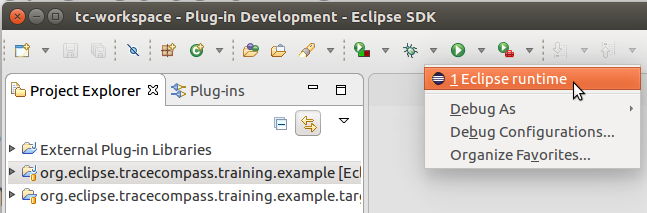
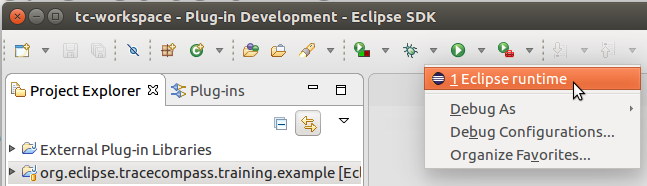
Better instructions

diff --git a/tracecompass/slides.md b/tracecompass/slides.md
@@ -6,6 +6,32 @@
 % thankyou_details:
 
 ---
+title: Agenda
+
+- Day 1
+    - Module 1: Overview and Background
+    - Module 2: Core Trace API
+	- Module 3: Analysis Framework
+	- Module 4: Generic State System
+- Day 2
+    - Module 5: Time Graph Views
+    - Module 6: Timing Analysis
+	- Module 7: Timing Analysis Views
+	- Module 8: Custom Analysis
+---
+title: Approach to course
+
+- A mix of theory and hands-on exercises
+- Teams of 2
+- Ask questions often and give feeback
+- 9h30 to 16h30 schedule
+- One hour lunch
+- 15 minute break, morning and afternoon
+- Please tell us if you are confused during the course
+
+<center>**Let's get started!**</center>
+
+---
 title: Module 1
 subtitle: Overview and Background
 
@@ -288,31 +314,35 @@ public void traceClosed(TmfTraceClosedSignal signal) {
 }
 ~~~
 ---
-title: Step to prepare
+title: Steps to prepare
 
-- Go to *Plug-in Development perspective*:
-    - *File->Import...->General->Existing Projects into Workspace*
-    - Press *Next*
-    - Press *Browse...*
-    - Choose *~/workspace-training/EclipseTraining/org.eclipse.tracecompass.training.example*
-    - Make sure a single project is showing and is selected
-    - Press *Finish*
-
-- Right-click on project and choose *Team->Fetch from Upstream*
-
+- In the command-line, cd to **~/workspace-traning/EclipseTraning**. 
+	- Execute **git reset --hard 1af2ce**
+- Execute the start script *~/workspace-training/start.tcsh*
+- If you have any projects that are *not* named **External Plug-in Libraries**, remove them:
+	- Right-click on the project, Delete (Do not check "Delete project contents on disk").
+- You should only have *External Plug-in Libraries*
+- All good?
 ---
-title: Exercise: Listen to a signal
+title: Steps to prepare
 
-- Reset to **TRACECOMPASS2.1_START**
-- Create a class that will receive the signal, `EventReader`
-- Instantiate the class. For now, we will do this in the `Activator` class.
-- Register the class with the `TmfTraceSignalManager`
-- Create a `public` method that will receive the signal:
-	- Annotate your method with `@TmfSignalHandler`
-	- It needs a `TmfTraceOpenedSignal` parameter
-	- Make it output something to the console
-- <b>Go!</b>
-- **TODO**: Show how to test by opening a trace
+- Go to *Plug-in Development perspective**:
+    - **File->Import...->General->Existing Projects into Workspace**
+    - Press **Next**
+    - Press **Browse...**
+    - Choose **~/workspace-training/EclipseTraining/org.eclipse.tracecompass.training.example**
+    - Make sure a single project is showing and is selected
+    - Press **Finish**
+
+- Right-click on project and choose **Team->Fetch from Upstream**
+---
+title: How to reset to commits
+
+- Open the History view (tab at the bottom of the screen)
+- If nothing appears, click on the **org.eclipse.tracecompass.training.example**
+- Right-click on the desired commit (**TRACECOMPASS2.1_START**), **Reset**, **Hard**
+
+<center><img src="images/git_reset.png"/></center>
 
 ---
 title: How to test
@@ -321,9 +351,23 @@ title: How to test
 
 <center><image src="images/tracecompass_runtime-launch.png"/></center>
 
-- Open the trace in Project Explorer
+- Right-click on **training_ust_001**, Select Trace Type > Common Trace Format > LTtng UST Trace.
+- Open the trace in Project Explorer (double-click)
 
-<center><image src="images/tracecompass_trace_open.png"/></center>
+<center><image style="width:250px; height:auto" src="images/tracecompass_trace_open.png"/></center>
+
+---
+title: Exercise: Listen to a signal
+
+- Reset to **TRACECOMPASS2.1_START** (should already have been done in previous steps)
+- Create a class that will receive the signal, `EventReader`
+- Instantiate the class. For now, we will do this in the `Activator` class.
+- Register the class with the `TmfTraceSignalManager`
+- Create a `public` method that will receive the signal:
+	- Annotate your method with `@TmfSignalHandler`
+	- It needs a `TmfTraceOpenedSignal` parameter
+	- Make it output something to the console (System.out.println)
+- <b>Go!</b>
 
 ---
 title: Trace API
@@ -391,11 +435,11 @@ title: Exercise: Read events from the trace
 
 - Reset to **TRACECOMPASS2.2_START**
 - In the signal handler, get the trace object from the signal parameter
-- Send an even request to the trace:
+- Send an event request to the trace:
 	- Create an anonymous class of type `TmfEventRequest`
 	- Override handleData and output the time stamp of each event to console
 		- **Bonus**: Print a specific field of the event
-	- When the request is **completed**, output something to the console
+	- When the request is **completed**, output something to the console (System.out.println)
 - <b>Go!</b>
 
 ---
